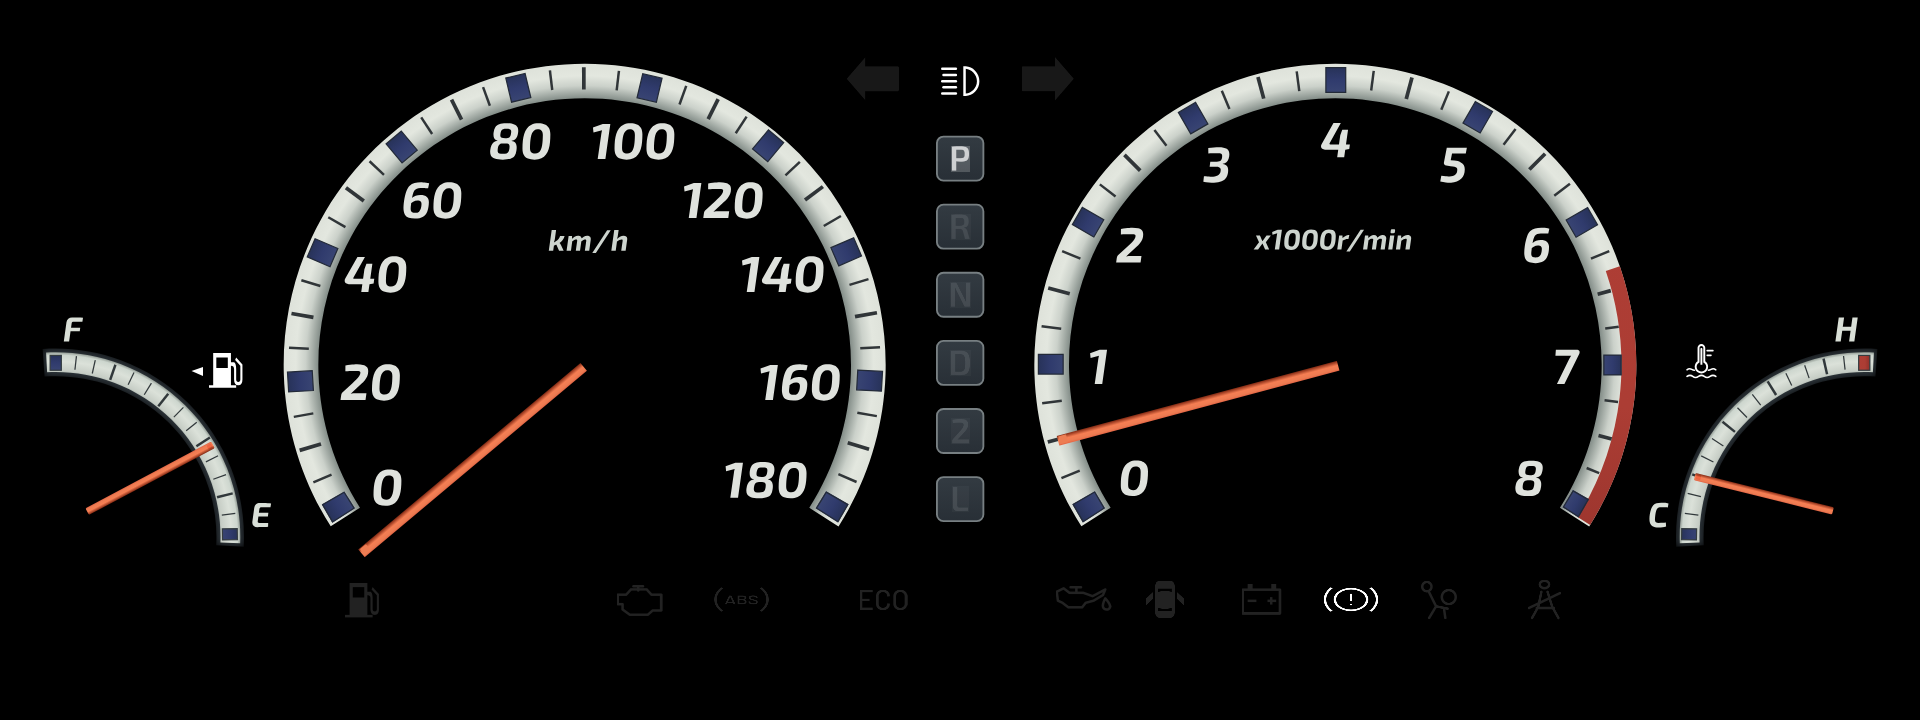
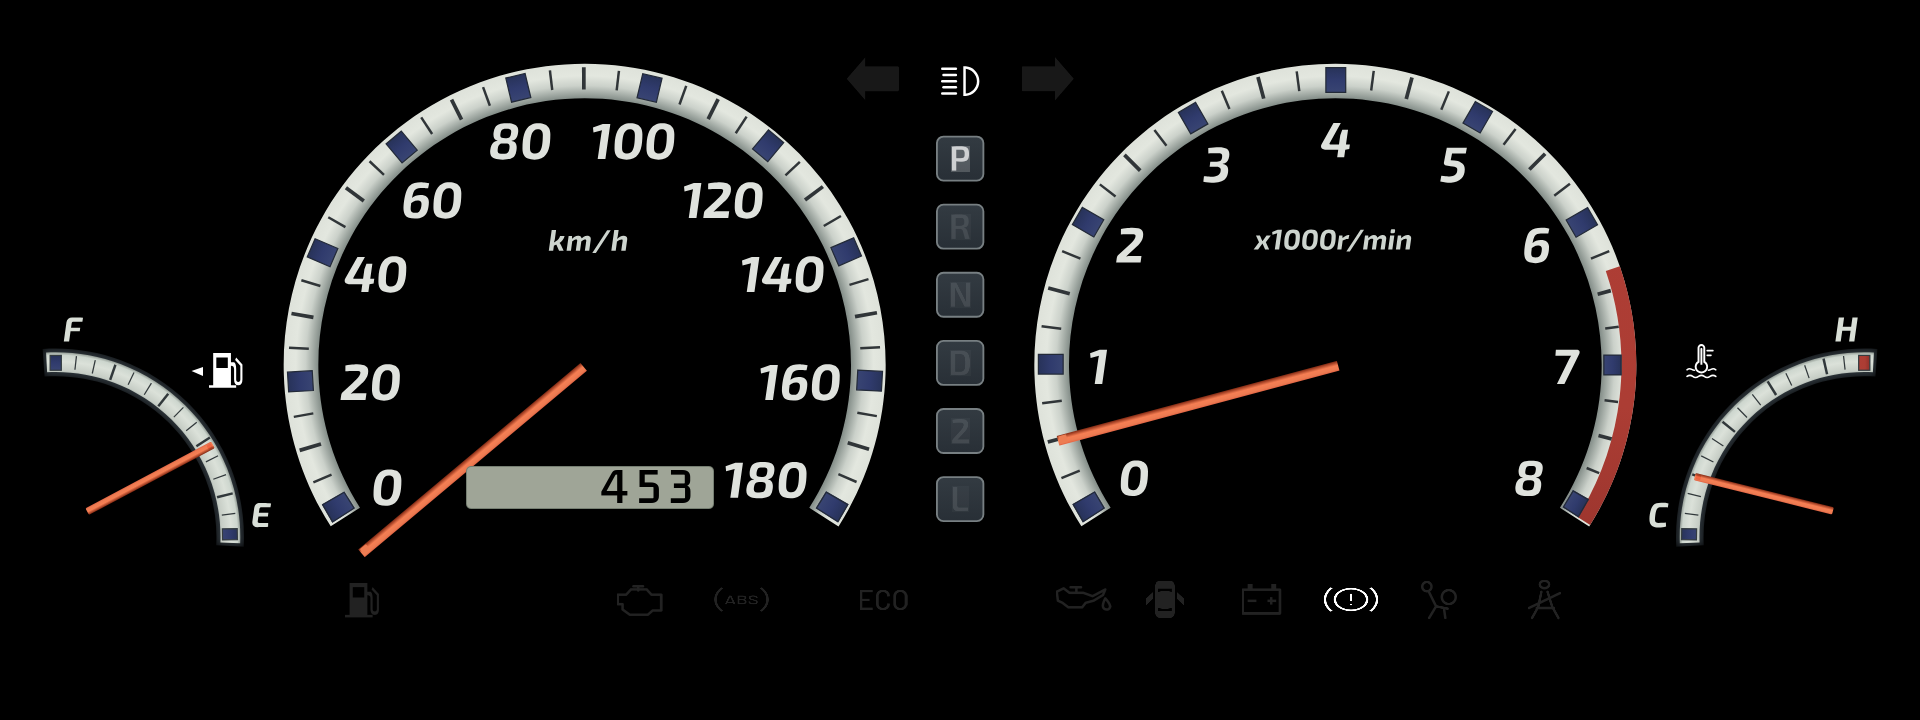
dsh: Gaia — экранчик одометра на спидометре (плашка из макета, цифры живые)

Changed region(s): [[0.2188, 0.6417, 0.375, 0.7333]]

diff --git a/Dashboard/GaiaSkin.qml b/Dashboard/GaiaSkin.qml
@@ -99,6 +99,19 @@ Item {
     readonly property real gearRowStep: 68.1
     readonly property real gearFirstRowY: 136.6
 
+    // Экранчик одометра под левым колодцем. Координаты и цвета сняты с
+    // PNG-рендера макета: плашка 248×43 в (466, 466), тело #9FA597,
+    // кромка #767F72, цифры чёрные. В SVG этого узла нет — SVG и PNG
+    // дизайнера разошлись, поэтому плашку рисуем примитивами, а цифры
+    // живые, шрифтом приборки.
+    readonly property real screenX: 466
+    readonly property real screenY: 466
+    readonly property real screenW: 248
+    readonly property real screenH: 43
+    readonly property string numericFont: "Kdam Thmor Pro"
+    // Пробег: целые километры, выровнены вправо, как в макете.
+    readonly property string odometerText: String(Math.round(Math.max(0, CanBackend.odometer)))
+
     // ---- состояние ламп из CAN ----
     readonly property bool engineRunning: CanBackend.rpm > 400
     readonly property bool fuelLow: CanBackend.fuelLevel <= 10
@@ -281,6 +294,34 @@ Item {
             smooth: true
             opacity: modelData.on ? root.lampOnOpacity : root.lampOffOpacity
             Behavior on opacity { NumberAnimation { duration: 120 } }
+        }
+    }
+
+    // ======================= ЭКРАН ОДОМЕТРА =======================
+    // Светлая плашка с чёрными цифрами — как в макете. Геометрия и цвета
+    // в свойствах выше; цифры идут справа, левая часть плашки остаётся
+    // пустой (в макете там тоже пусто).
+    Rectangle {
+        x: root.screenX
+        y: root.screenY
+        width: root.screenW
+        height: root.screenH
+        radius: 5
+        color: "#9FA597"
+        border.width: 1
+        border.color: "#767F72"
+
+        Text {
+            anchors.right: parent.right
+            anchors.rightMargin: 12
+            anchors.verticalCenter: parent.verticalCenter
+            text: root.odometerText
+            color: "#000000"
+            // В макете цифры 33 px высотой с шагом ~26 px — под эти
+            // размеры подобраны pixelSize и letterSpacing.
+            font.family: root.numericFont
+            font.pixelSize: 42
+            font.letterSpacing: 8
         }
     }
 }

diff --git a/docs/skin.md b/docs/skin.md
@@ -45,7 +45,13 @@ python3 tools/gaia_text.py     # что написано на шкалах (OCR 
   остались только стрелки;
 - фон панели сделан **чисто чёрным** (#000000), а не тёмно-серым #14171A из
   макета: заказчик просил убрать «серое» свечение (tools/gaia_bake.py,
-  BASE_FILL_OUT).
+  BASE_FILL_OUT);
+- **экранчик одометра** под левым колодцем: в рендере макета это светлая
+  плашка 248×43 в (466, 466) — тело #9FA597, кромка #767F72, цифры чёрные
+  высотой 33 px с шагом ~26. В SVG этого узла нет (SVG и PNG макета
+  разошлись), поэтому плашку рисует QML, а цифры живые — из
+  `CanBackend.odometer` шрифтом Kdam Thmor Pro, выровнены вправо, как в
+  макете.
 
 **Что уже работает:** стрелки (скорость и обороты), подсветка текущей
 передачи, указатели поворота с миганием, ряд ламп (топливо, двигатель, ABS,
